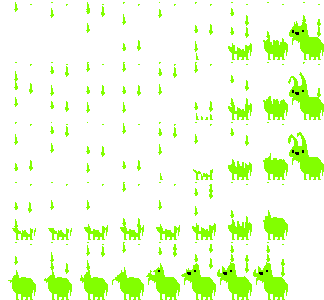
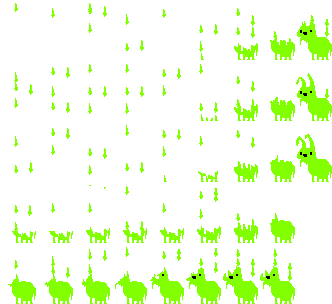
fixed HunnyBunny
- fixed animation spawn location
- added padding to fix pixel glitch on atlas
- added "cutscene" zone, disables player movement during spawn animation

diff --git a/src/scenes/Play.js b/src/scenes/Play.js
@@ -4,6 +4,7 @@ class Play extends Phaser.Scene {
         super("playScene"); // Scene key
 
         let punchedBee = false;
+        let HBExists = false;
     }
 
     init() {
@@ -58,20 +59,32 @@ class Play extends Phaser.Scene {
 
         // HunnyBunny setup
         const hunnyBunnySpawn = map.findObject('hunnyBunnySpawn', obj => obj.name === 'hunnyBunnySpawn');
-        this.hunnyBunny = this.physics.add.sprite(hunnyBunnySpawn.x, hunnyBunnySpawn.y - 20, 'hunnyBunny');
-        this.physics.add.collider(this.hunnyBunny, collisionLayer);
-        this.physics.add.collider(this.hunnyBunny, this.stick, this.handlePlayerHit, null, this);
 
         // Zone to have HunnyBunny Spawn
-        this.spawnHB = this.physics.add.sprite(this.hunnyBunny.x - 150, this.hunnyBunny.y, null)
-        this.spawnHB.setBodySize(this.hunnyBunny.width * 2, this.hunnyBunny.height)
+        this.spawnHB = this.physics.add.staticSprite(hunnyBunnySpawn.x - 100, hunnyBunnySpawn.y - 20, null)
+        this.spawnHB.setBodySize(36, 120)
         this.spawnHB.body.allowGravity = false
         this.spawnHB.setVisible(false)
 
+        // Pseudo-Cutscene, locks player movement until animation is complete
         this.physics.add.overlap(this.stick, this.spawnHB, () => {
-            this.hunnyBunny.anims.play('HBSpawn')
-        }, null, this);
+            //hunny bunny spawn animation
+            if(!this.HBExists){
+                this.stick.maxSpeed = 0
+                this.HBExists = true
+                this.HBSpawn = this.add.sprite(hunnyBunnySpawn.x, hunnyBunnySpawn.y - 25, 'hunnyBunny')
 
+                this.HBSpawn.anims.play('HBSpawn').once('animationcomplete', () => {
+                    this.stick.maxSpeed = 100
+
+                    // perform the old-switcheroo
+                    this.hunnyBunny = this.physics.add.sprite(hunnyBunnySpawn.x, hunnyBunnySpawn.y - 15, 'hunnyBunny');
+                    this.physics.add.collider(this.hunnyBunny, collisionLayer);
+                    this.physics.add.collider(this.hunnyBunny, this.stick, this.handlePlayerHit, null, this);
+                
+                })  
+            }
+        }, null, this);
 
         // Camera setup
         this.cameras.main.setBounds(0, 0, map.widthInPixels, map.heightInPixels);
@@ -79,9 +92,7 @@ class Play extends Phaser.Scene {
         this.cameras.main.setZoom(3.5);
         this.physics.world.setBounds(0, 0, map.widthInPixels, map.heightInPixels);
 
-        // Slope definition for manual handling
-
-        // Define multiple slopes for pseudo slope collision
+        // Slope definition for manual handling, defined with multiple slopes for pseudo slope collision
         this.slopes = [
             {
                 startX: 144,
@@ -109,6 +120,10 @@ class Play extends Phaser.Scene {
 
         // Attack hitbox
         this.physics.add.overlap(this.stick.attackHitbox, this.bouncyBee, this.handleAttack, null, this);
+
+        
+        //Testing Purposes for convenience
+        this.stick.setPosition(hunnyBunnySpawn.x - 150, hunnyBunnySpawn.y - 20)
 
     }
 

diff --git a/src/scenes/Menu.js b/src/scenes/Menu.js
@@ -53,12 +53,7 @@ class Menu extends Phaser.Scene {
         // Load enemies
         this.load.image('sleepySam', 'sleepySam.png');
         this.load.image('hunnyBunny', 'hunnyBunny.png');
-        this.load.spritesheet('hunnyBunnyCreate', 'hunnyBunnyCreate.png', {
-            frameWidth: 36,
-            frameHeight: 60,
-            startFrame: 0,
-            endFrame: 42
-        });
+        this.load.atlas('hunnyBunnyCreate', 'hunnyBunnyCreate.png', 'hunnyBunnyCreate.json');
         this.load.image('bouncyBee', 'bouncyBee.png');
     }
 
@@ -131,9 +126,10 @@ class Menu extends Phaser.Scene {
 
         this.anims.create({
             key: 'HBSpawn',
-            frames: this.anims.generateFrameNumbers('hunnyBunnyCreate', {start: 0, end: 42, first: 0}),
+            frames: this.anims.generateFrameNames('hunnyBunnyCreate', {prefix: 'HB', start: 0, end: 42}),
             framerate: 5,
             repeat: 0,
+            hideOnComplete: true,
         })
 
         if(enteredMenuScene != true) {
